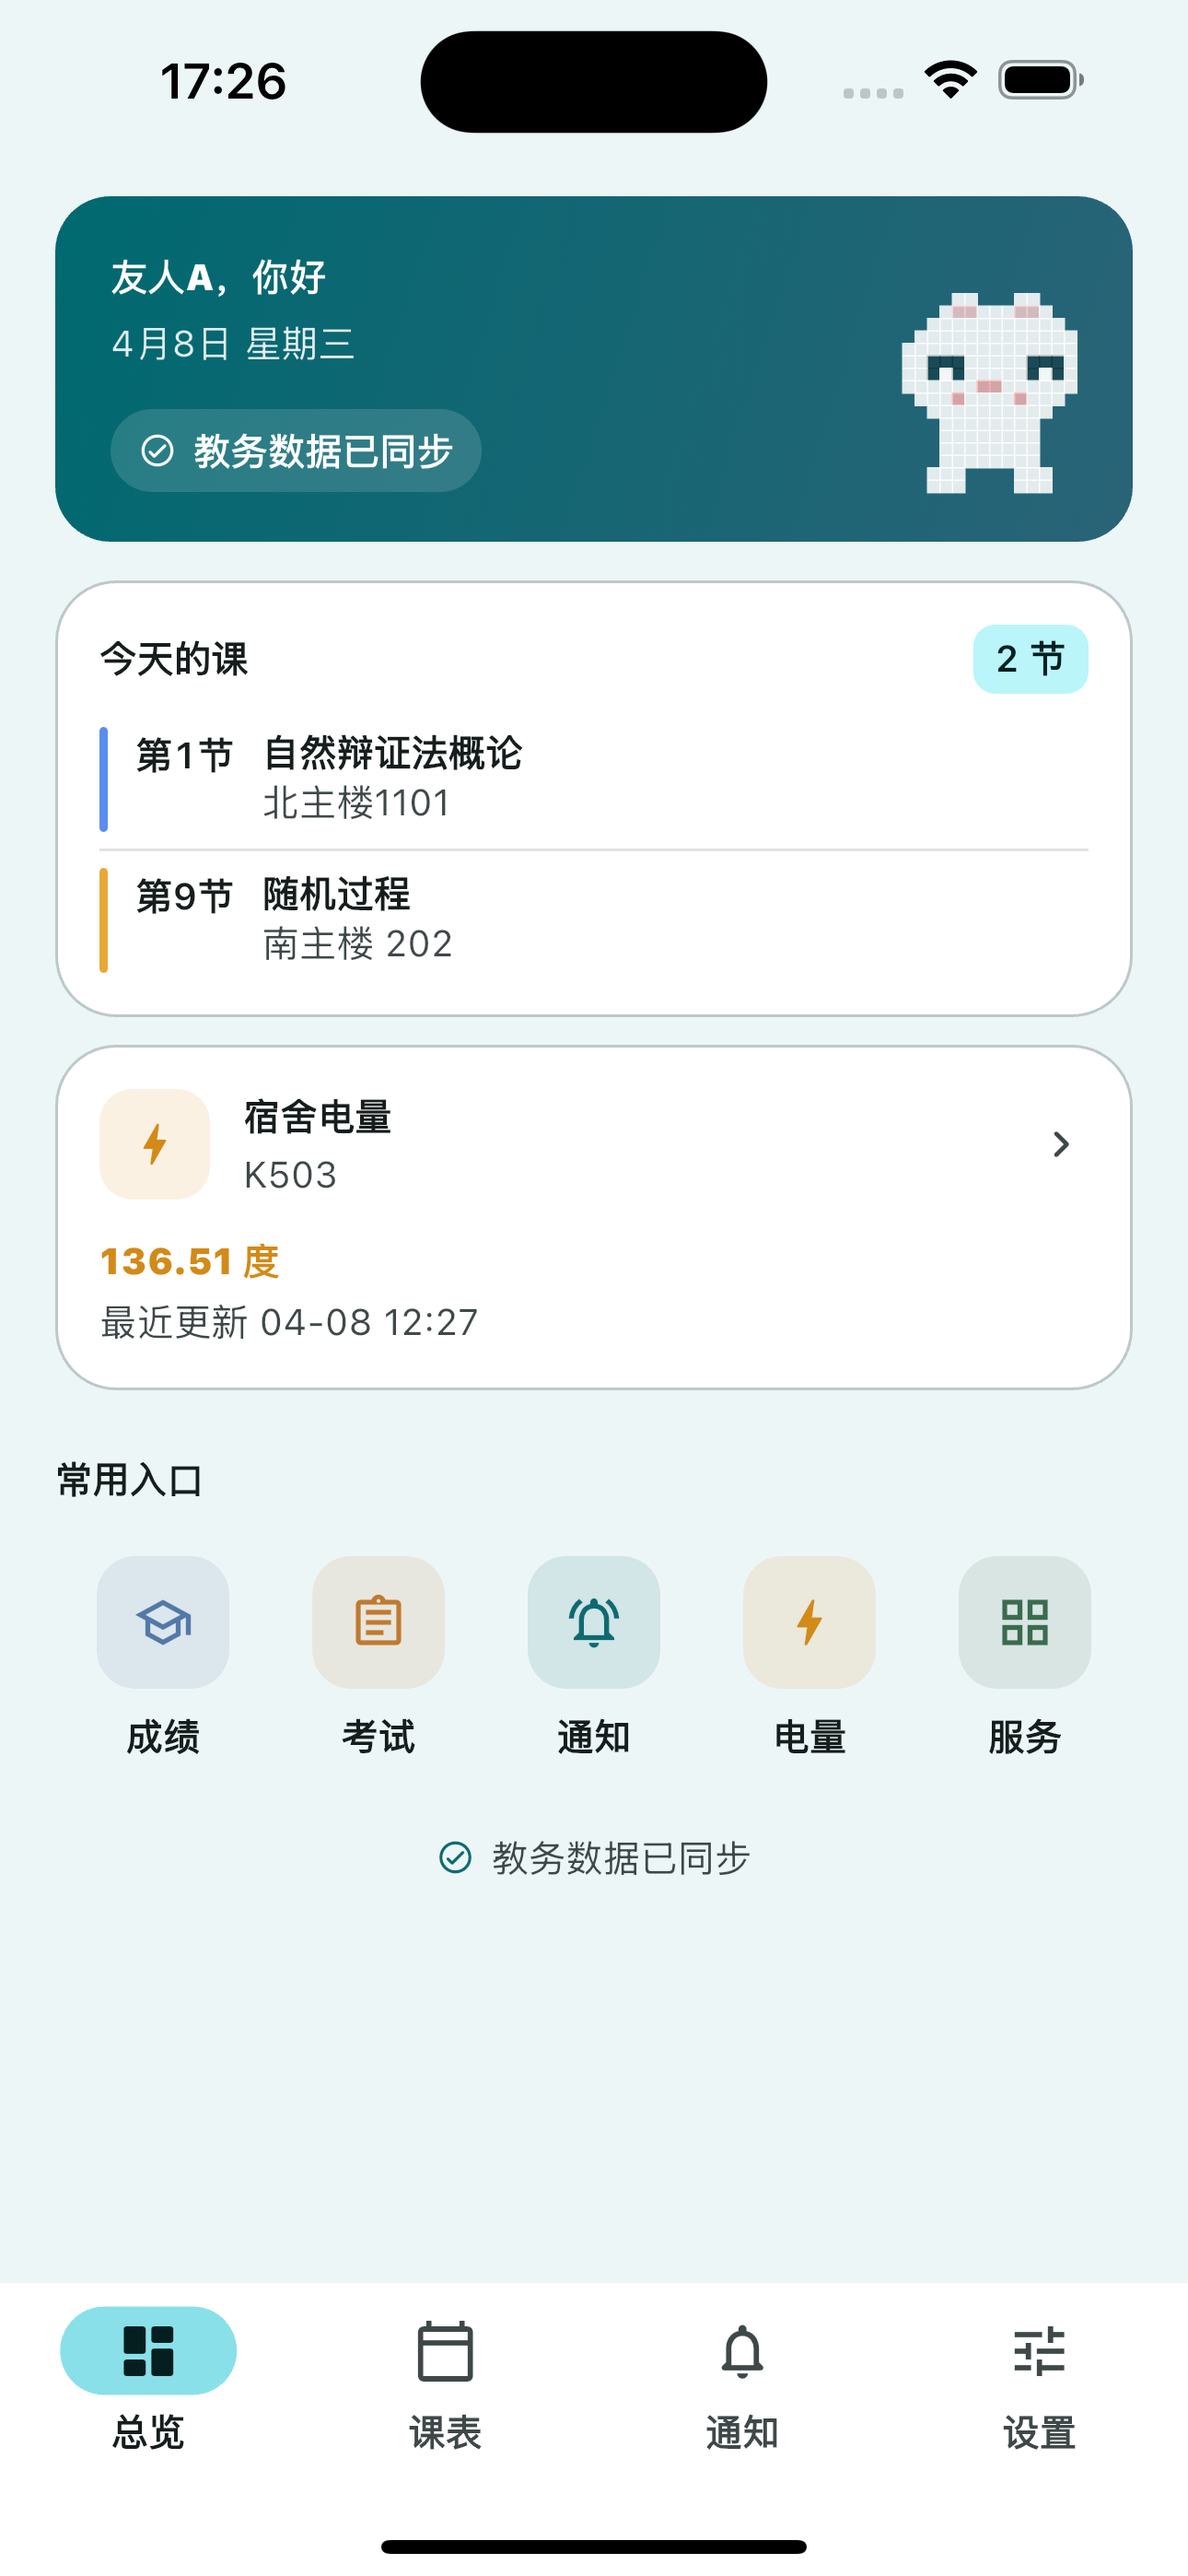
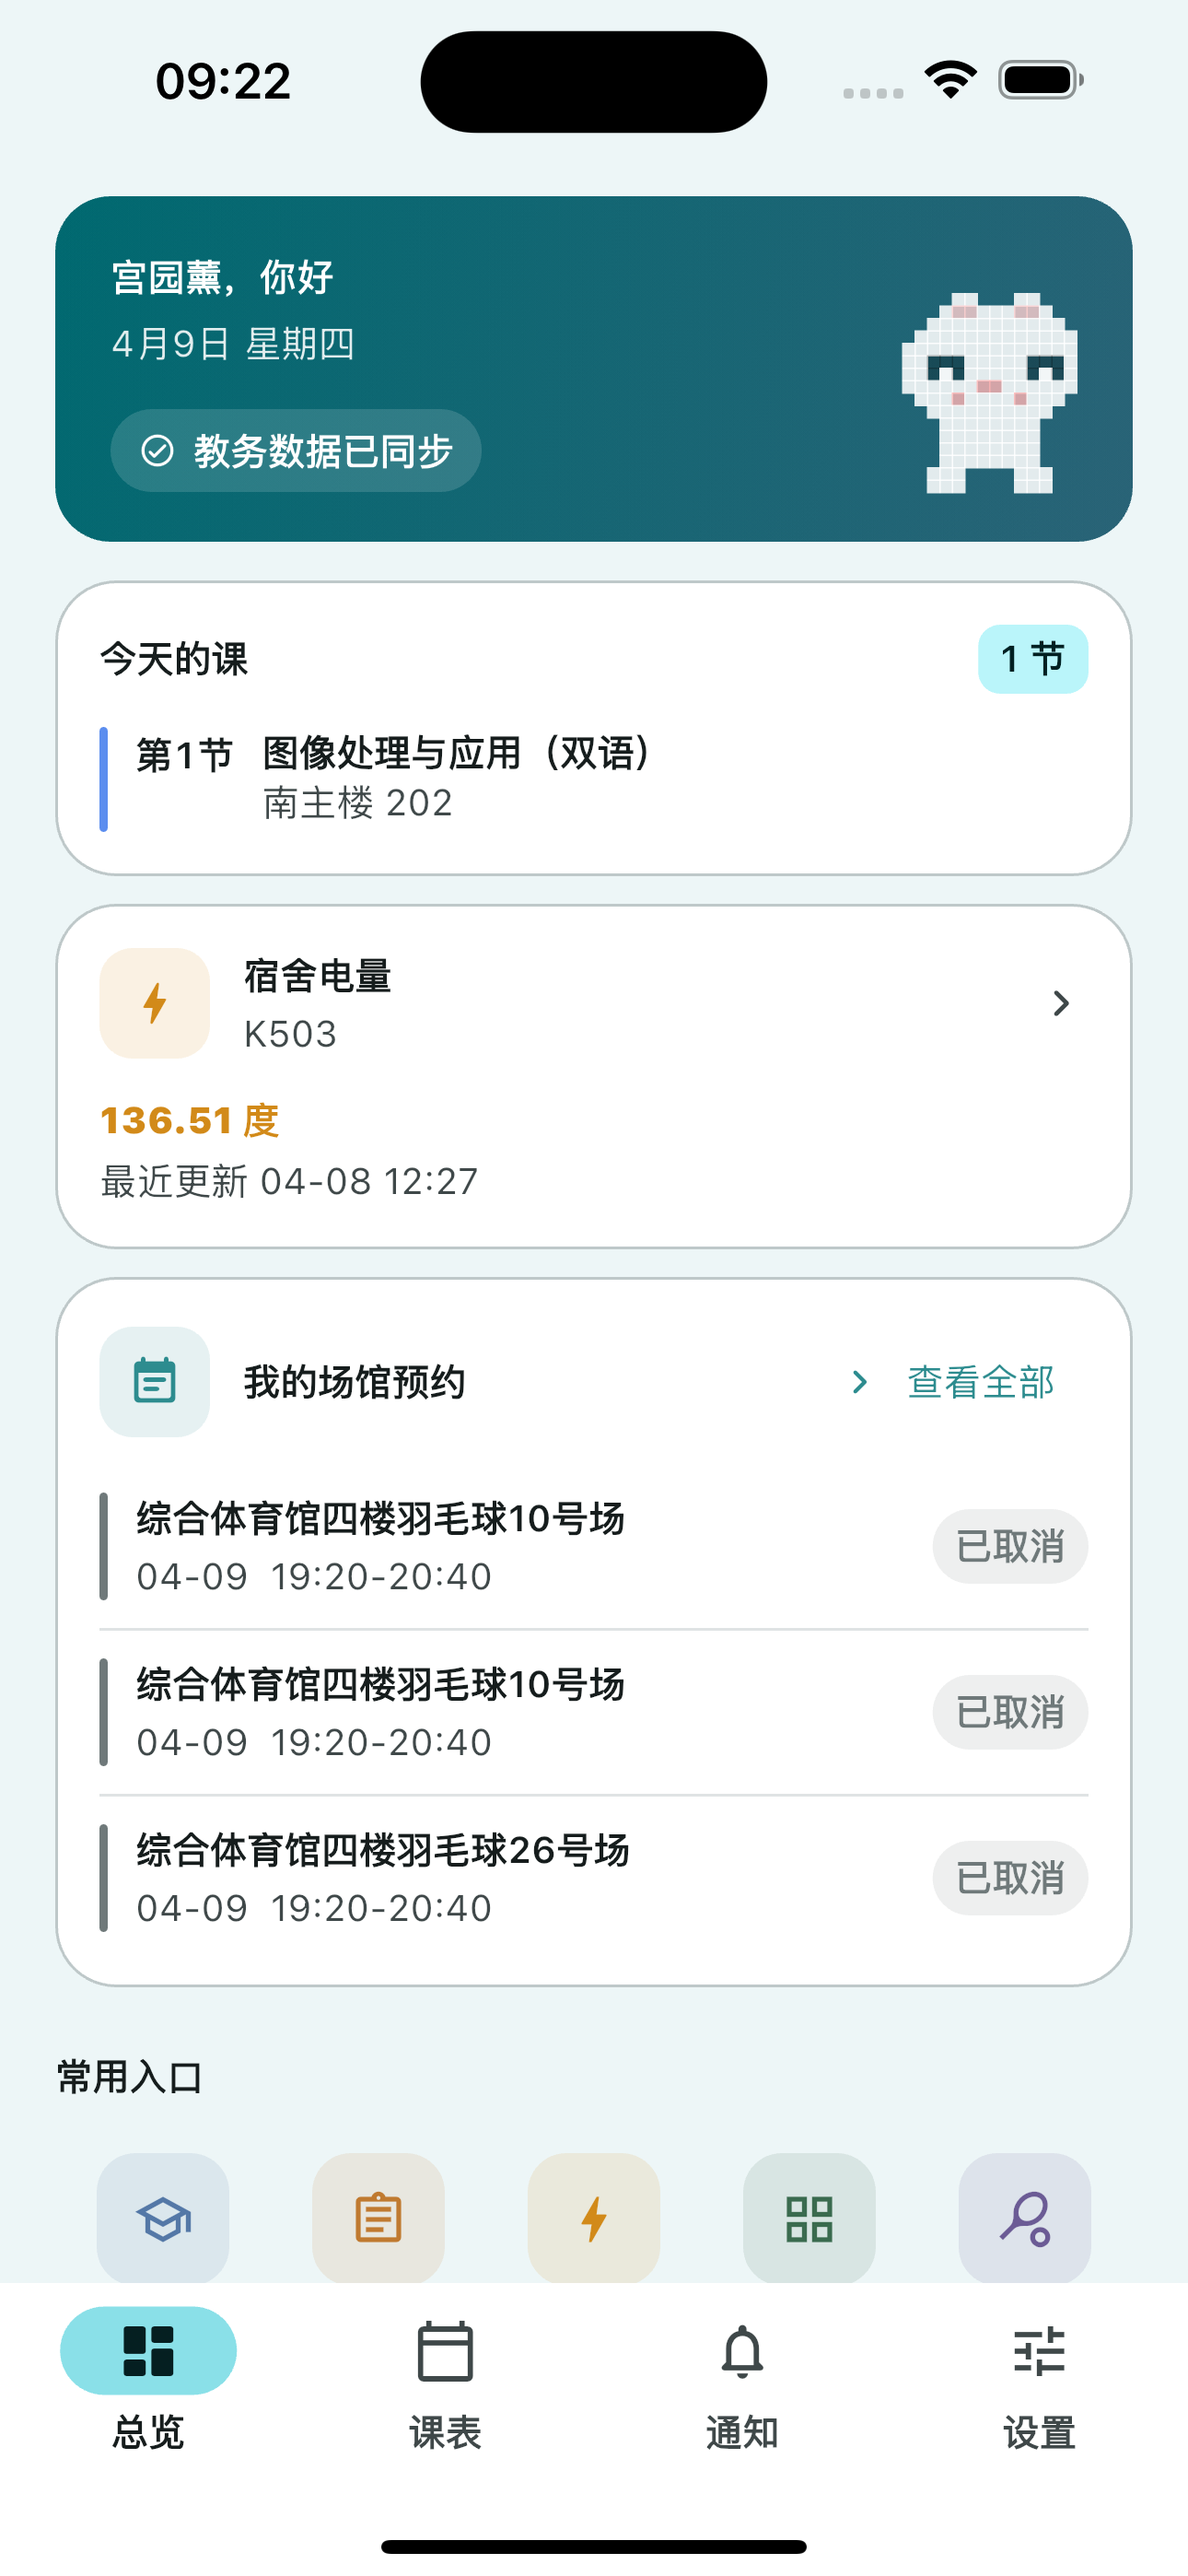
docs: update README.md

diff --git a/README.md b/README.md
@@ -53,6 +53,10 @@
 | --- | --- | --- | --- |
 | ![Electricity](docs/screenshots/electric%20-%20iPhone%2016%20Plus%20-%202026-04-08%20at%2011.06.17.png) | ![Services](docs/screenshots/service%20-%20iPhone%2016%20Plus%20-%202026-04-08%20at%2011.06.23.png) | ![Exams](docs/screenshots/exam%20-%20iPhone%2016%20Plus%20-%202026-04-08%20at%2011.07.44.png) | ![Settings](docs/screenshots/setting%20-%20iPhone%2016%20Plus%20-%202026-04-08%20at%2011.05.45.png) |
 
+| Gym Booking | Personalized Recommendations | Venue Search |
+| --- | --- | --- |
+| ![Gym Booking](docs/screenshots/order-%20iPhone%2016%20Plus%20-%202026-04-09%20at%2009.24.56.png) | ![Personalized Recommendations](docs/screenshots/like%20-%20iPhone%2016%20Plus%20-%202026-04-09%20at%2009.25.20.png) | ![Venue Search](docs/screenshots/search%20-%20iPhone%2016%20Plus%20-%202026-04-09%20at%2009.25.26.png) |
+
 ## Getting Started
 
 ### Prerequisites

diff --git a/README_CN.md b/README_CN.md
@@ -53,6 +53,10 @@
 | --- | --- | --- | --- |
 | ![电费](docs/screenshots/electric%20-%20iPhone%2016%20Plus%20-%202026-04-08%20at%2011.06.17.png) | ![服务](docs/screenshots/service%20-%20iPhone%2016%20Plus%20-%202026-04-08%20at%2011.06.23.png) | ![考试](docs/screenshots/exam%20-%20iPhone%2016%20Plus%20-%202026-04-08%20at%2011.07.44.png) | ![设置](docs/screenshots/setting%20-%20iPhone%2016%20Plus%20-%202026-04-08%20at%2011.05.45.png) |
 
+| 体育馆预约 | 个性化推荐 | 场地搜索 |
+| --- | --- | --- |
+| ![体育馆预约](docs/screenshots/order-%20iPhone%2016%20Plus%20-%202026-04-09%20at%2009.24.56.png) | ![个性化推荐](docs/screenshots/like%20-%20iPhone%2016%20Plus%20-%202026-04-09%20at%2009.25.20.png) | ![场地搜索](docs/screenshots/search%20-%20iPhone%2016%20Plus%20-%202026-04-09%20at%2009.25.26.png) |
+
 ## 快速开始
 
 ### 环境要求
